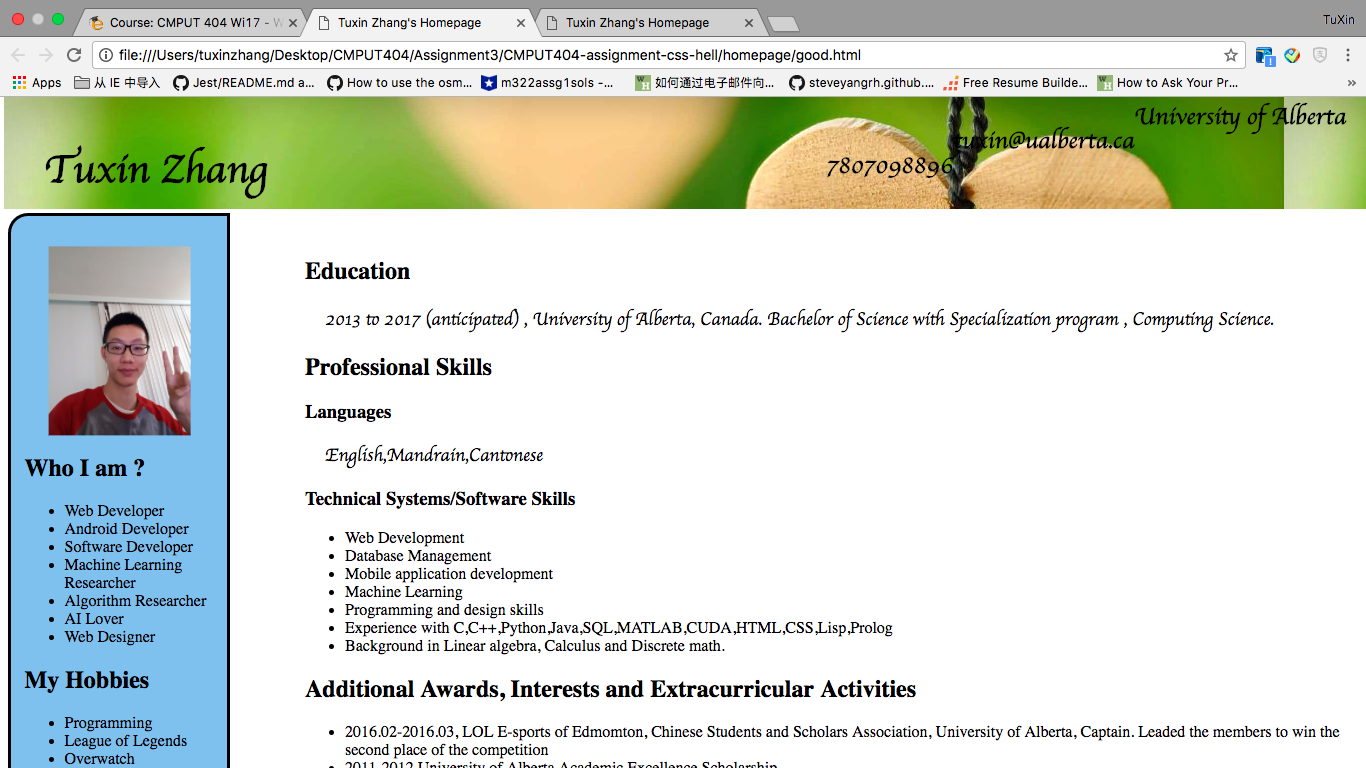
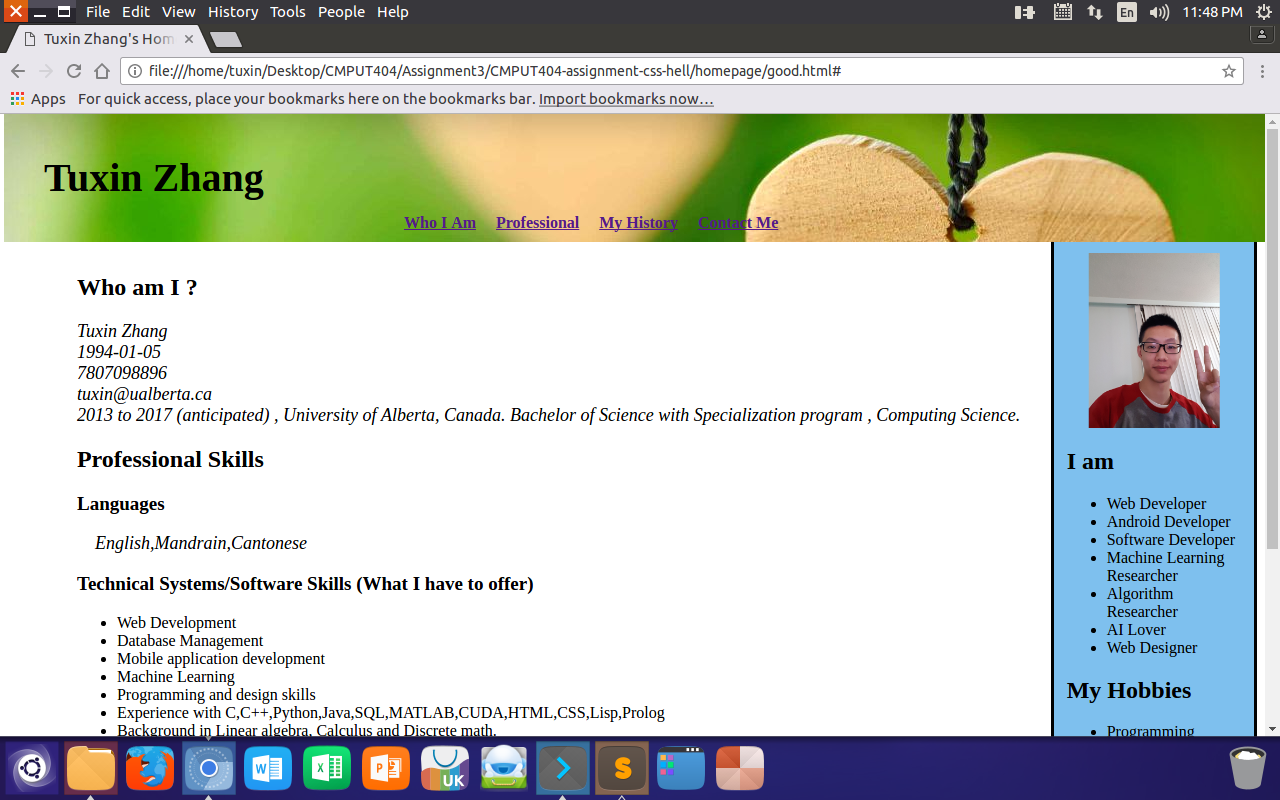
change css

diff --git a/homepage/good.html b/homepage/good.html
@@ -6,15 +6,20 @@
 	</head>
 	<body>
 		<div class="header">
-			<p class="name">Tuxin Zhang</p>
-			<p class="university" style="color:black">University of Alberta</p>
-	        <p class="email" style="color:black">tuxin@ualberta.ca</p></br>
-			<p class="phone" style="color:black">7807098896</p>
+			<p class="name">Tuxin Zhang</p><br/><br/>
+
+			<nav class="navig">
+          		<a href="#">Who I Am</a>&nbsp;&nbsp;&nbsp;&nbsp;
+          		<a href="#pro">Professional</a>&nbsp;&nbsp;&nbsp;&nbsp;
+          		<a href="#hist">My History</a>&nbsp;&nbsp;&nbsp;&nbsp;
+          		<a href="#">Contact Me</a>
+      		</nav>
 	    </div>
 		<div class="leftbar">
+
 			<img class="selfie" src="images/tuxin1.jpg" alt="The photo of Tuxin Zhang" />
 		</br></br>
-	    	<h2>Who I am ?</h2>
+	    	<h2>I am</h2>
 	        <ul>
 	           <li>Web Developer</li>
 	           <li>Android Developer</li>
@@ -39,23 +44,24 @@
 	    </div>
 		<div class="right">
 			</br></br>
-			<h2>Education</h2>
-			<p class="about">&nbsp;&nbsp;&nbsp;&nbsp;2013 to 2017 (anticipated) , University of Alberta, Canada. Bachelor of Science with Specialization program , Computing Science.
+			<h2 >Who am I ?</h2>
+			<p class="about"><span id="pro"></span>Tuxin Zhang<br/>1994-01-05<br/>7807098896<br/>tuxin@ualberta.ca<br/>
+			2013 to 2017 (anticipated) , University of Alberta, Canada. Bachelor of Science with Specialization program , Computing Science.
 			</p>
 			<h2>Professional Skills</h2>
 			<h3>Languages</h3>
 			<p class="about">&nbsp;&nbsp;&nbsp;&nbsp;English,Mandrain,Cantonese</p>
-			<h3>Technical Systems/Software Skills</h3>
+			<h3>Technical Systems/Software Skills (What I have to offer)</h3>
 			<ul>
 				<li>Web Development</li>
 				<li>Database Management</li>
 				<li>Mobile application development</li>
 				<li>Machine Learning</li>
-				<li>Programming and design skills</li>
+				<li>Programming and design skills</li><span id="hist"></span>
 				<li>Experience with C,C++,Python,Java,SQL,MATLAB,CUDA,HTML,CSS,Lisp,Prolog</li>
 				<li>Background in Linear algebra, Calculus and Discrete math.</li>
 			</ul>
-			<h2>Additional Awards, Interests and Extracurricular Activities</h2>
+			<h2>My History</h2>
 			<ul>
 				<li>2016.02-2016.03, LOL E-sports of Edmomton, Chinese Students and Scholars Association, University of Alberta, Captain. Leaded the members to win the second place of the competition</li>
 				<li>2011-2012 University of Alberta Academic Excellence Scholarship</li>

diff --git a/homepage/good.css b/homepage/good.css
@@ -5,13 +5,19 @@
 	font-weight:bold;
     margin-top: -0.5em;
 	margin-left: -0.25em;
-    height: 7em;
+    height: 8em;
     margin-bottom: 2em;
     color: white;
     font-family: cursive;
 	background-image: url("images/bg1.jpg");
     
 }
+
+.navig {
+  padding-top: 4em;
+  padding-left: 25em;
+}
+
 .right {
     position: relative;
     float:right;
@@ -30,7 +36,7 @@
 .leftbar{
 	position: relative;
 	padding: 4% 1% 1% 1%;
-	float: left;
+	float: right;
 	width: 14%;
 	margin: 8% 0% 2% 0%;
 	background-color:#7ec0ee;
